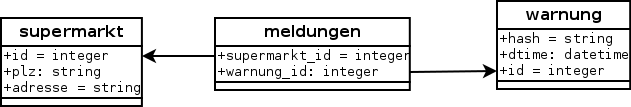
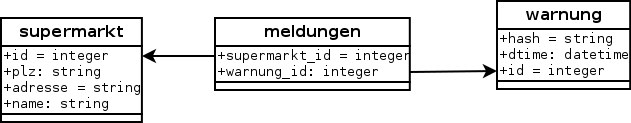
added example supermarkets.csv

diff --git a/sqlite_insert_supermarkets.py b/sqlite_insert_supermarkets.py
@@ -1,0 +1,31 @@
+import sqlite3
+
+# Database
+database = "database.db"
+
+
+database = sqlite3.connect(database)
+cursor = database.cursor()
+
+# Restart Database
+cursor.execute("drop table supermarkt")
+cursor.execute("drop table warnung")
+cursor.execute("drop table meldungen")
+
+cursor.execute("CREATE TABLE supermarkt(id INTEGER PRIMARY KEY, name TEXT, plz TEXT, adresse INT)")
+cursor.execute("CREATE TABLE warnung(id INTEGER PRIMARY KEY, hash TEXT, dtime DATETIME)")
+cursor.execute("CREATE TABLE meldungen(supermarkt_id INT, warnung_id INT, FOREIGN KEY(supermarkt_id) REFERENCES supermarkt(id), FOREIGN KEY(warnung_id) REFERENCES warnung(id))")
+
+
+with open("supermaerkte.csv","r") as f:
+    f.readline()
+    for line in f:
+        line = line.replace("\n","")
+        plz,name,adresse = line.split(";")
+        cursor.execute("INSERT INTO supermarkt(plz, name, adresse) VALUES" +
+               "('" + str(plz) + "','" + str(name) + "','" + adresse + "');")
+database.commit()
+
+result = cursor.execute("select * from supermarkt")
+for row in result:
+    print(row)
